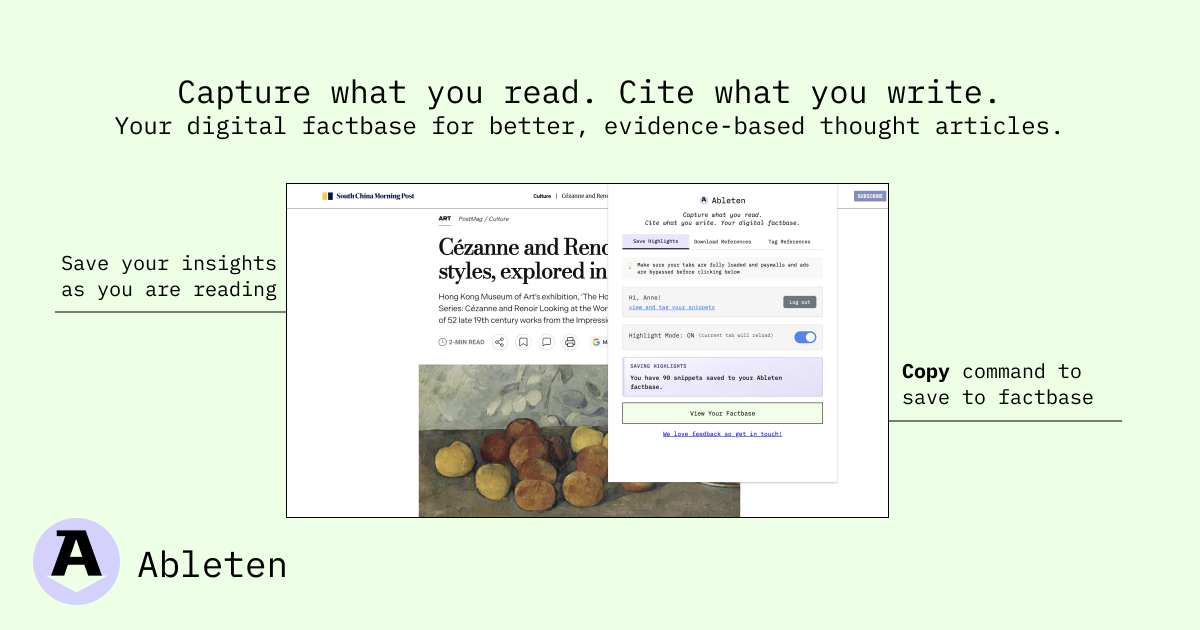
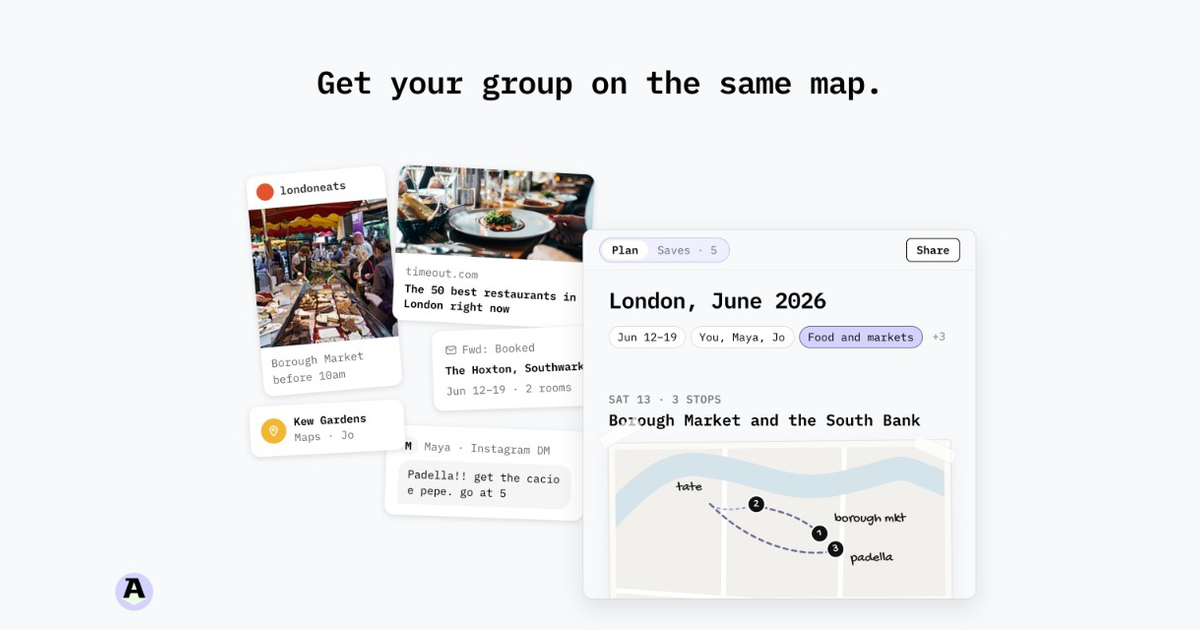
Use the group-map card as the homepage share image.

diff --git a/index.html b/index.html
@@ -9,13 +9,13 @@
     <link rel="canonical" href="https://ableten.xyz/">
     <meta property="og:title" content="Ableten — Hybrid AI Trip Planner for Group Trips">
     <meta property="og:description" content="A group travel planner for holidays and vacations. Turn scattered recs into grounded trips on a real map—places everyone can drag into a shared itinerary.">
-    <meta property="og:image" content="https://ableten.xyz/og-image.png">
+    <meta property="og:image" content="https://ableten.xyz/og-image.png?v=20261116b">
     <meta property="og:url" content="https://ableten.xyz/">
     <meta property="og:type" content="website">
     <meta name="twitter:card" content="summary_large_image">
     <meta name="twitter:title" content="Ableten — Hybrid AI Trip Planner for Group Trips">
     <meta name="twitter:description" content="A group travel planner for holidays and vacations. Turn scattered recs into grounded trips on a real map—places everyone can drag into a shared itinerary.">
-    <meta name="twitter:image" content="https://ableten.xyz/og-image.png">
+    <meta name="twitter:image" content="https://ableten.xyz/og-image.png?v=20261116b">
     <link href="https://fonts.googleapis.com/css2?family=Gochi+Hand&family=IBM+Plex+Mono:ital,wght@0,400;0,500;0,600;0,700;1,400&display=swap" rel="stylesheet">
     <link rel="stylesheet" href="design/ableten-design-tokens.css">
     <link rel="stylesheet" href="design/ableten-components.css">
